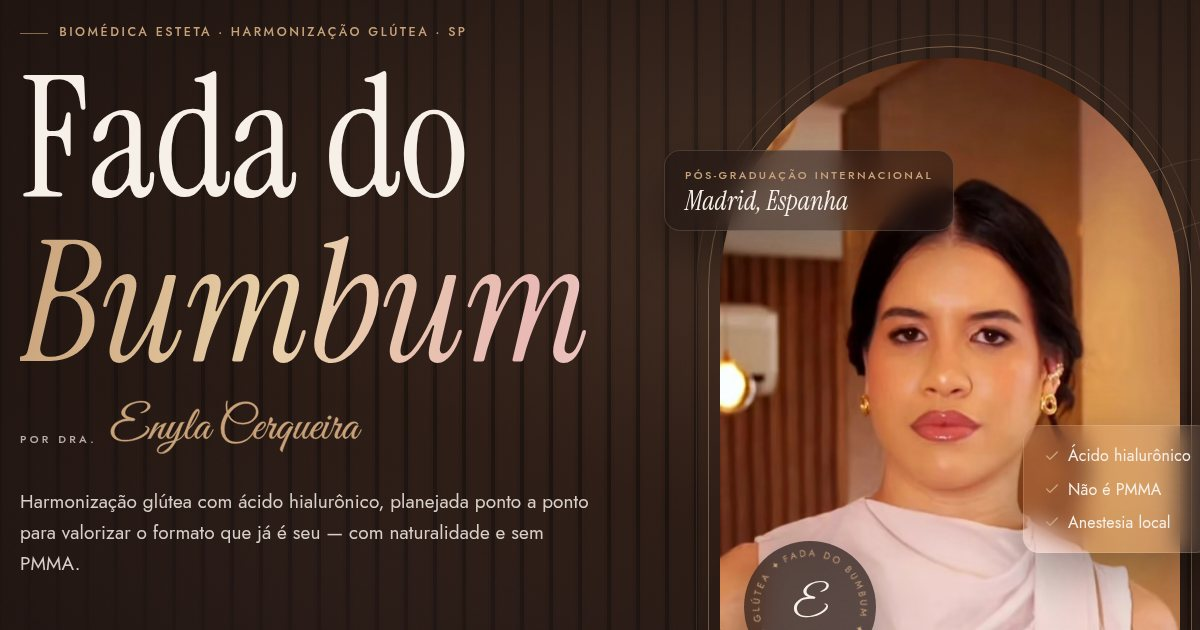
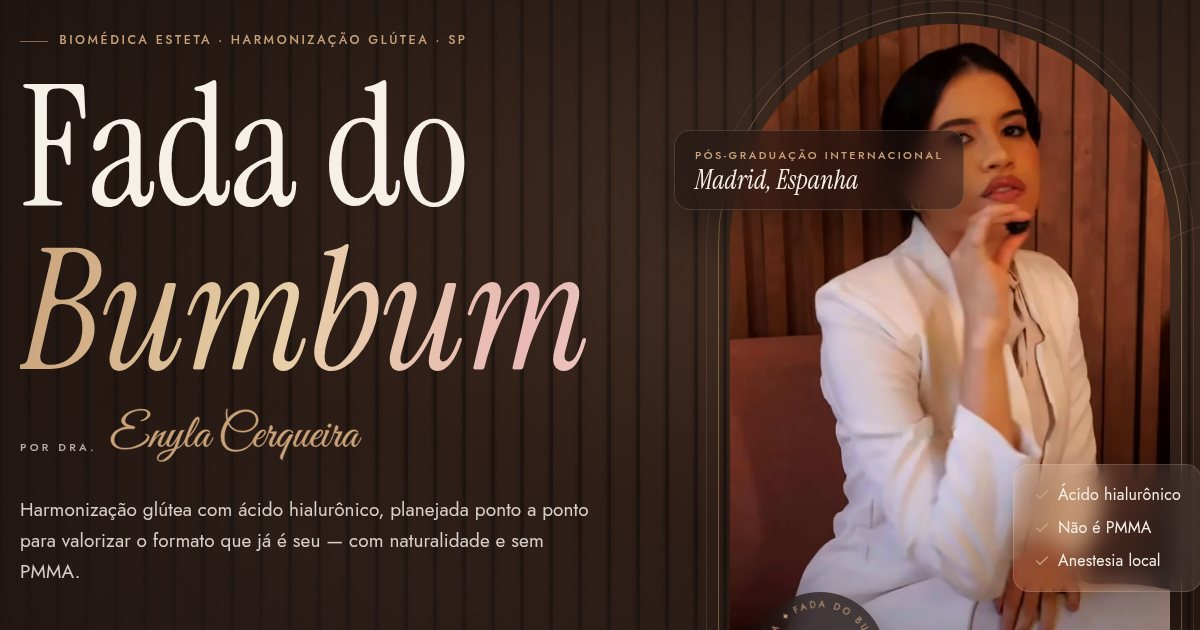
Hero com foto editorial da Dra. Enyla (terno branco, sofá rosé)
Quadro de três-quartos do reel do consultório, tratado (ruído, nitidez
e cor) e em proporção 2:3 para mostrar a pose inteira no arco.

Claude-Session: https://claude.ai/code/session_01ErwGMXvV9p4GR49w5GWrmr

diff --git a/components/sections/Hero.tsx b/components/sections/Hero.tsx
@@ -123,19 +123,19 @@ export default function Hero() {
       <div className="container-shell grid min-h-[100svh] items-end gap-10 pb-28 pt-[calc(var(--header-h)+24px)] lg:min-h-[max(100svh,760px)] lg:grid-cols-12 lg:items-center lg:pb-24">
         {/* Foto: fundo de tela cheia no celular; arco emoldurado no desktop */}
         <div className="lg:relative lg:col-span-5 lg:col-start-8 lg:row-start-1">
-          <div className="absolute inset-0 -z-10 lg:relative lg:inset-auto lg:z-0 lg:mx-auto lg:aspect-[4/5] lg:w-full lg:max-w-[500px]">
+          <div className="absolute inset-0 -z-10 lg:relative lg:inset-auto lg:z-0 lg:mx-auto lg:aspect-[2/3] lg:w-full lg:max-w-[440px]">
             <span aria-hidden="true" className="arch absolute -inset-3 hidden border border-gold/45 lg:block" />
             <span aria-hidden="true" className="arch absolute -inset-6 hidden border border-gold/15 lg:block" />
             <motion.div style={reduced ? undefined : { scale: imageScale }} className="absolute inset-0 overflow-hidden lg:arch">
               <Image
-                src="/assets/img/enyla-hero-recepcao.webp"
-                alt="Dra. Enyla Cerqueira na recepção da clínica, com pendentes de vidro e parede ripada ao fundo"
+                src="/assets/img/enyla-hero-ensaio.webp"
+                alt="Dra. Enyla Cerqueira de terno branco, sentada em sofá de veludo rosé diante do ripado de madeira do consultório"
                 fill
                 priority
                 fetchPriority="high"
                 quality={85}
                 sizes="(max-width: 1023px) 100vw, 500px"
-                className="kenburns object-cover object-[50%_0%]"
+                className="kenburns object-cover object-[60%_12%] lg:object-[50%_0%]"
               />
             </motion.div>
             {/* scrims só no celular: contraste do texto sobre a foto */}

diff --git a/app/page.tsx b/app/page.tsx
@@ -27,7 +27,7 @@ export default function HomePage() {
     '@type': 'HealthAndBeautyBusiness',
     name: 'Fada do Bumbum · Dra. Enyla Cerqueira',
     url: siteUrl,
-    image: `${siteUrl}/assets/img/enyla-hero-recepcao.webp`,
+    image: `${siteUrl}/assets/img/enyla-hero-ensaio.webp`,
     telephone: '+55 11 91848-6677',
     sameAs: [contact.instagram],
     address: {
